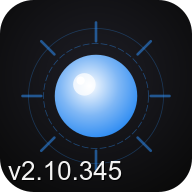
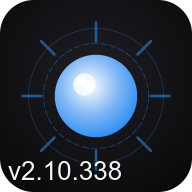
deploy charleslike v2.10.345 03-Jun-26_17:57:19.30

Changed region(s): [[0.4688, 0.8125, 0.625, 0.9375]]

diff --git a/games/charleslike/index.html b/games/charleslike/index.html
@@ -144,6 +144,7 @@
 		background-image: url("cover.png");
 	}
 	</style>
+  <link rel=icon type=image/x-icon href=fav.ico>
 </head>
 
 <body>